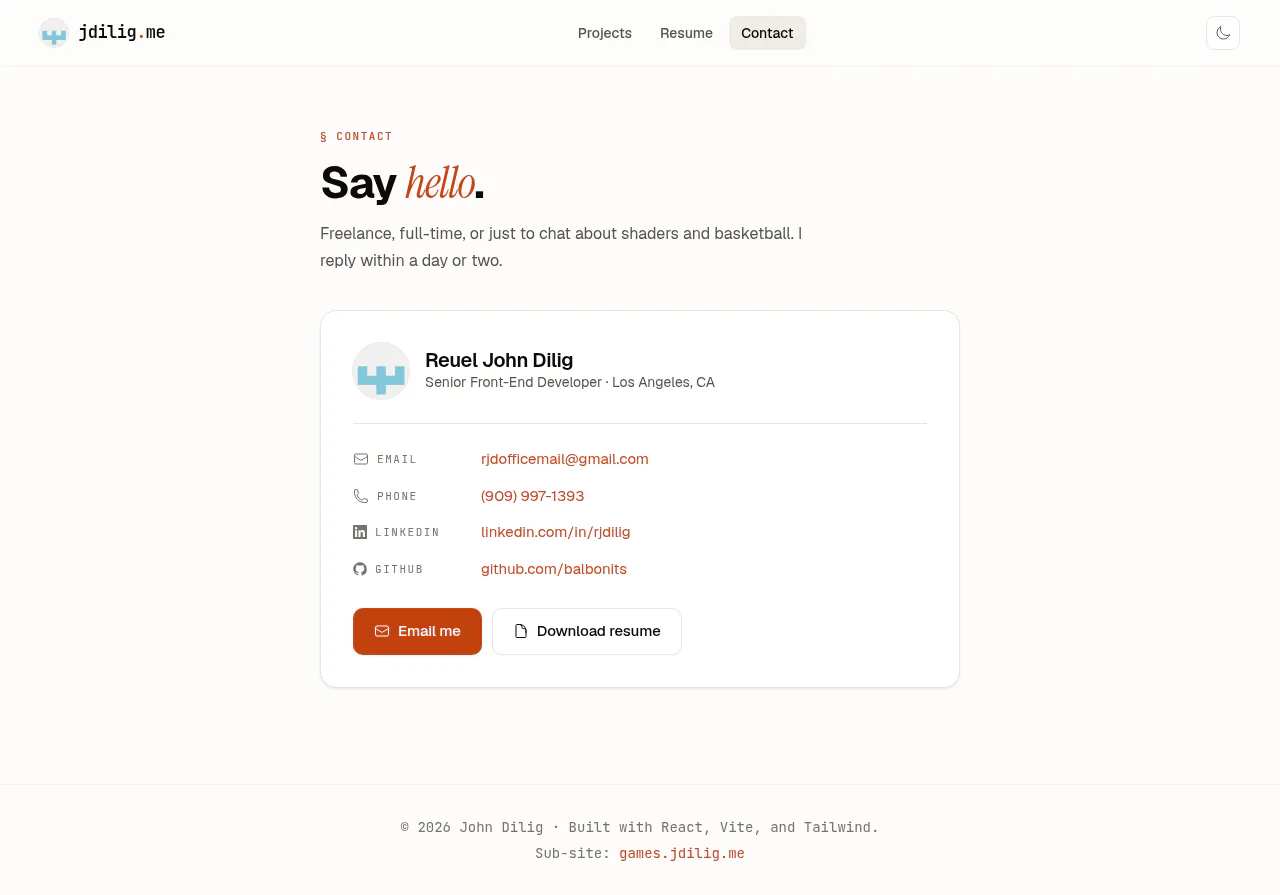
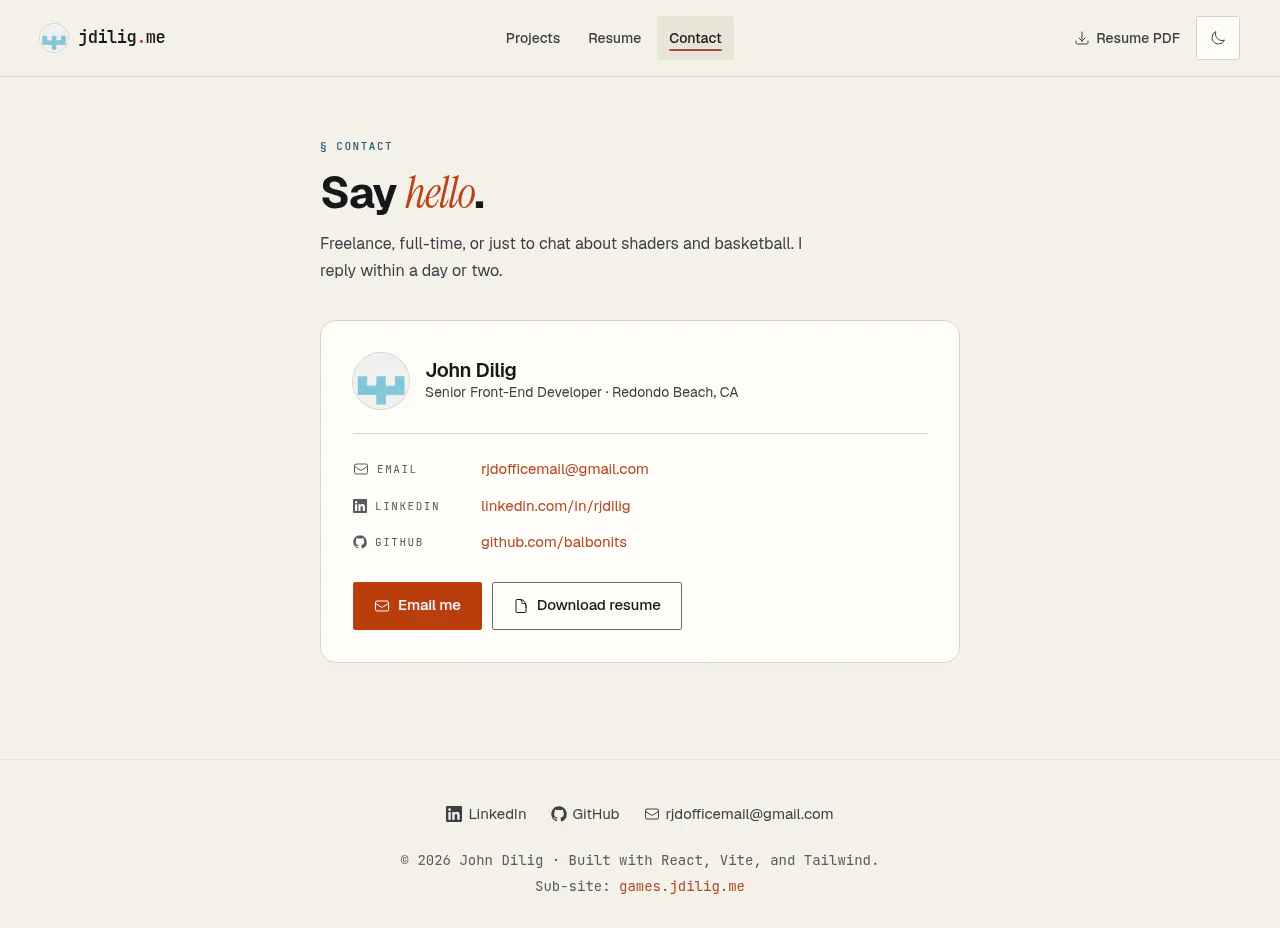
Use John Dilig as the site display name
Show "John Dilig" on the resume and contact pages, in JSON-LD, and in
llms.txt. The resume PDF and its filename are unchanged. Recapture the
resume and contact project screenshots so the gallery matches.

diff --git a/src/routes/Resume.tsx b/src/routes/Resume.tsx
@@ -23,7 +23,7 @@ export default function Resume() {
       <div className="mb-8">
         <Eyebrow>Resume</Eyebrow>
         <h1 className="mt-3 text-[34px] font-bold tracking-[-0.03em] text-fg-strong sm:text-[40px]">
-          {PROFILE.fullName}
+          {PROFILE.name}
         </h1>
         <p className="mt-2 text-[15px] text-fg-muted">{HEADLINE}</p>
         <p className="mt-1 text-[15px] text-fg-muted">{STATUS}</p>

diff --git a/src/routes/Contact.tsx b/src/routes/Contact.tsx
@@ -43,7 +43,7 @@ export default function Contact() {
               id="contact-card-name"
               className="text-[20px] font-semibold text-fg-strong"
             >
-              {PROFILE.fullName}
+              {PROFILE.name}
             </h2>
             <p className="text-[14px] text-fg-muted">
               {PROFILE.role} · {PROFILE.location}

diff --git a/src/entry-server.tsx b/src/entry-server.tsx
@@ -55,7 +55,6 @@ export function structuredData(): object[] {
     '@type': 'Person',
     '@id': `${site}#person`,
     name: PROFILE.name,
-    alternateName: PROFILE.fullName,
     jobTitle: PROFILE.role,
     description: `${HEADLINE}. ${SUMMARY}`,
     url: site,

diff --git a/src/data/profile.ts b/src/data/profile.ts
@@ -1,6 +1,5 @@
 export const PROFILE = {
   name: 'John Dilig',
-  fullName: 'Reuel John Dilig',
   role: 'Senior Front-End Developer',
   location: 'Redondo Beach, CA',
   email: 'rjdofficemail@gmail.com',
